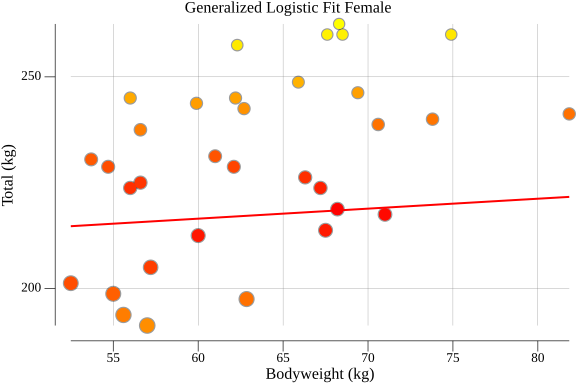
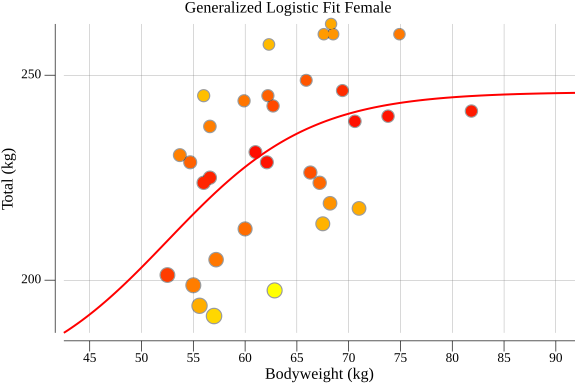
Improve vizualization and go back to nelder method (with small fix on the lower bound)

diff --git a/examples/main.go b/examples/main.go
@@ -19,13 +19,13 @@ func main() {
 	}
 
 	// calculate fitting parameters
-	maleFit, err := ris.FitRISParamsBFGS(maleData, 100)
+	maleFit, err := ris.FitRISParamsNelder(maleData, 100)
 	if err != nil {
 		log.Fatal(err)
 	}
 
 	// calculate fitting parameters
-	femaleFit, err := ris.FitRISParamsBFGS(femaleData, 100)
+	femaleFit, err := ris.FitRISParamsNelder(femaleData, 100)
 	if err != nil {
 		log.Fatal(err)
 	}

diff --git a/lib/nelder.go b/lib/nelder.go
@@ -27,7 +27,7 @@ func FitRISParamsNelder(data []DataPoint, normalizer float64) (FitResult, error)
 
 	// estimate A: min(y) - (max(y)-min(y))/3
 	minY, maxY := floats.Min(y), floats.Max(y)
-	A := minY - (maxY-minY)/3.0
+	A := minY - (maxY - minY) * (4/3) * 0.25
 
 	// initial parameter guesses: A, K, B, V, Q
 	init := []float64{maxY, 0.01, x[len(x)/2], 1.0}

diff --git a/lib/plot.go b/lib/plot.go
@@ -102,6 +102,8 @@ func PlotFitGraph(data []DataPoint, result FitResult, title, filename string) er
 			maxY = pt.Y
 		}
 	}
+	minX = minX - 10
+	maxX = maxX + 10
 	p.X.Tick.Marker = plot.ConstantTicks(generateTicks(minX, maxX, 5))
 	p.Y.Tick.Marker = plot.ConstantTicks(generateTicks(minY, maxY, 50))
 
